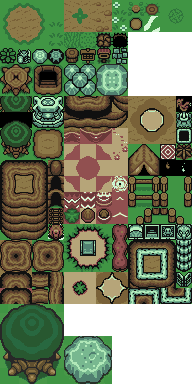
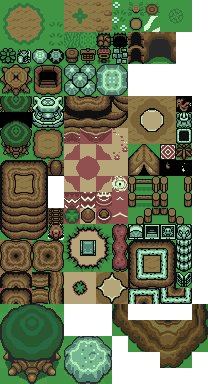
add cave tile

diff --git a/cScene.cpp b/cScene.cpp
@@ -19,7 +19,7 @@ bool cScene::LoadLevel(int level)
 	float coordx_tile, coordy_tile;
 	int row, column;
 	float h = 16.0f / 384.0f;
-	float w = 16.0f / 192.0f;
+	float w = 16.0f / 208.0f;
 	res=true;
 	string buffer = "";
 	if(level<10) sprintf(file,"%s0%d%s",(char *)FILENAME,level,(char *)FILENAME_EXT);
@@ -63,8 +63,8 @@ bool cScene::LoadLevel(int level)
 					//Tiles = 1,2,3,...
 					map[(j*SCENE_WIDTH) + i] = row*column;
 
-					coordx_tile = column*16.0f / 192.0f;
-					coordy_tile = row*16.0f / 384.0f;
+					coordx_tile = column*w;
+					coordy_tile = row*h;
 					
 					glTexCoord2f(coordx_tile, coordy_tile + h);	glVertex2i(px, py);
 					glTexCoord2f(coordx_tile + w, coordy_tile + h);	glVertex2i(px + 16, py);

diff --git a/cScene.h b/cScene.h
@@ -11,7 +11,7 @@
 #define FILENAME_EXT	".txt"
 
 #define TILE_SIZE		16
-#define BLOCK_SIZE		24
+#define BLOCK_SIZE		16
 
 class cScene
 {
